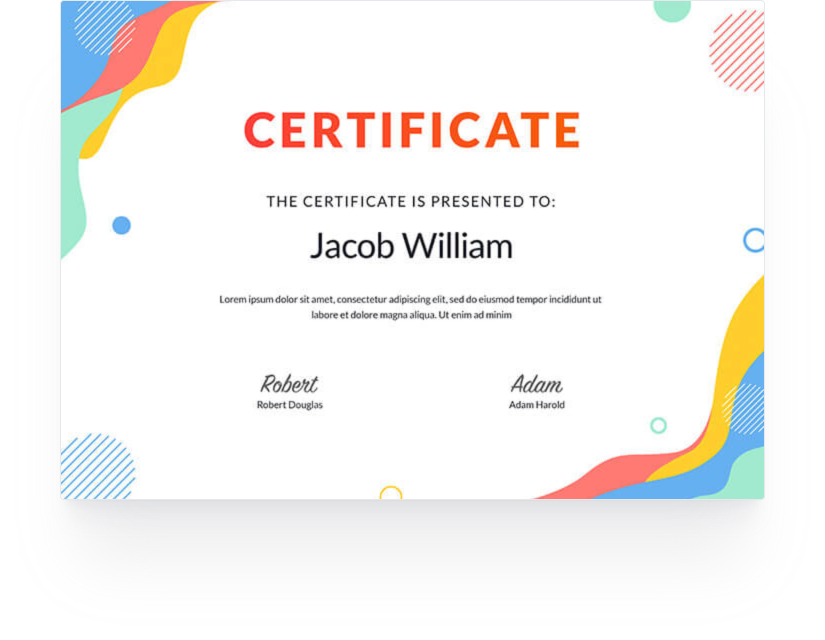
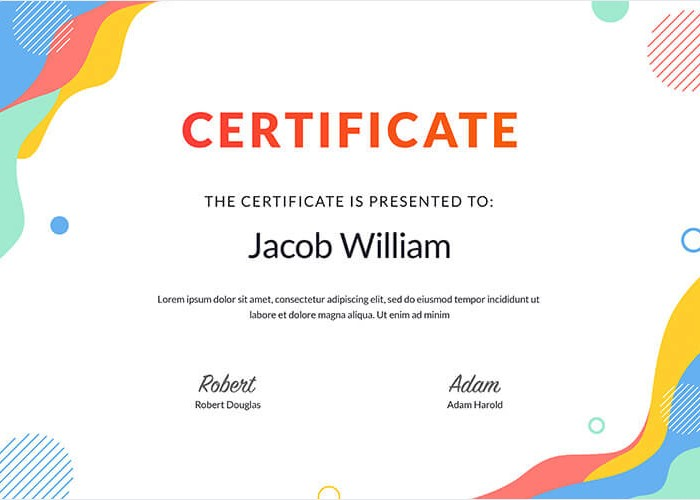
certificate section added

diff --git a/index.html b/index.html
@@ -104,7 +104,7 @@
             </div>
         </header>
         <main class="main">
-            <section class="about">
+            <section class="main__about about">
                 <div class="container">
                     <div class="about__inner">
                         <div class="about__createx">
@@ -161,32 +161,38 @@
                     </div>
                 </div>
             </section>
-            <section class="directions">
+            <section class="main__directions directions">
                 <div class="container">
                     <div class="directions__inner">
-                        <div class="directions__heading heading">
+                        <div class="directions__heading heading heading--text-center">
                             <p class="heading__subtitle">our main directions</p>
                             <h2 class="heading__title">What do we teach</h2>
                         </div>
                         <div class="directions__body">
                             <ul class="directions__filter-box">
                                 <li class="directions__filter-item">
-                                    <button class="directions__filter-btn directions__filter-btn--active" type="button" data-filter="all">All</button>
+                                    <button class="directions__filter-btn directions__filter-btn--active" type="button"
+                                        data-filter="all">All</button>
                                 </li>
                                 <li class="directions__filter-item">
-                                    <button class="directions__filter-btn" type="button" data-filter=".directions__list-item--marketing">Marketing</button>
+                                    <button class="directions__filter-btn" type="button"
+                                        data-filter=".directions__list-item--marketing">Marketing</button>
                                 </li>
                                 <li class="directions__filter-item">
-                                    <button class="directions__filter-btn" type="button" data-filter=".directions__list-item--managment">Management</button>
+                                    <button class="directions__filter-btn" type="button"
+                                        data-filter=".directions__list-item--managment">Management</button>
                                 </li>
                                 <li class="directions__filter-item">
-                                    <button class="directions__filter-btn" type="button" data-filter=".directions__list-item--hr">HR & Recruting</button>
+                                    <button class="directions__filter-btn" type="button"
+                                        data-filter=".directions__list-item--hr">HR & Recruting</button>
                                 </li>
                                 <li class="directions__filter-item">
-                                    <button class="directions__filter-btn" type="button" data-filter=".directions__list-item--design">Design</button>
+                                    <button class="directions__filter-btn" type="button"
+                                        data-filter=".directions__list-item--design">Design</button>
                                 </li>
                                 <li class="directions__filter-item">
-                                    <button class="directions__filter-btn" type="button" data-filter=".directions__list-item--development">Development</button>
+                                    <button class="directions__filter-btn" type="button"
+                                        data-filter=".directions__list-item--development">Development</button>
                                 </li>
                             </ul>
                             <div class="directions__list">
@@ -200,7 +206,7 @@
                                             <p class="directions__link-text">Odio posuere netus quisque faucibus lectus
                                                 arcu donec. Eget dictum eu viverra faucibus. Viverra scelerisque
                                                 consequat.</p>
-                                                <div class="directions__link-btn">Check courses</div>
+                                            <div class="directions__link-btn">Check courses</div>
                                         </div>
                                     </a>
                                 </li>
@@ -214,7 +220,7 @@
                                             <p class="directions__link-text">Odio posuere netus quisque faucibus lectus
                                                 arcu donec. Eget dictum eu viverra faucibus. Viverra scelerisque
                                                 consequat.</p>
-                                                <div class="directions__link-btn">Check courses</div>
+                                            <div class="directions__link-btn">Check courses</div>
                                         </div>
                                     </a>
                                 </li>
@@ -228,7 +234,7 @@
                                             <p class="directions__link-text">Odio posuere netus quisque faucibus lectus
                                                 arcu donec. Eget dictum eu viverra faucibus. Viverra scelerisque
                                                 consequat.</p>
-                                                <div class="directions__link-btn">Check courses</div>
+                                            <div class="directions__link-btn">Check courses</div>
                                         </div>
                                     </a>
                                 </li>
@@ -242,7 +248,7 @@
                                             <p class="directions__link-text">Odio posuere netus quisque faucibus lectus
                                                 arcu donec. Eget dictum eu viverra faucibus. Viverra scelerisque
                                                 consequat.</p>
-                                                <div class="directions__link-btn">Check courses</div>
+                                            <div class="directions__link-btn">Check courses</div>
                                         </div>
                                     </a>
                                 </li>
@@ -256,15 +262,46 @@
                                             <p class="directions__link-text">Odio posuere netus quisque faucibus lectus
                                                 arcu donec. Eget dictum eu viverra faucibus. Viverra scelerisque
                                                 consequat.</p>
-                                                <div class="directions__link-btn">Check courses</div>
+                                            <div class="directions__link-btn">Check courses</div>
                                         </div>
                                     </a>
                                 </li>
                                 <li class="mix directions__list-item directions__list-item--empty" data-order="6">
                                     <span>New studying program coming soon...</span>
                                 </li>
-                                
+
                             </div>
+                        </div>
+                    </div>
+                </div>
+            </section>
+            <section class="main__cert cert">
+                <div class="container">
+                    <div class="cert__inner">
+                        <div class="cert__content">
+                            <div class="cert__heading heading">
+                                <p class="heading__subtitle">Createx Certificate</p>
+                                <h2 class="heading__title">Your expertise will be confirmed</h2>
+                            </div>
+                            <div class="cert__text">
+                                <p class="cert__paragraph">
+                                    We are accredited by international professional organizations and institutes:
+                                </p>
+                            </div>
+                            <ul class="cert__logos">
+                                <li class="cert__logos-item">
+                                    <img src="images/logos/1.svg" alt="Del Mar Strategy">
+                                </li>
+                                <li class="cert__logos-item">
+                                    <img src="images/logos/2.svg" alt="Sentinal Consulting">
+                                </li>
+                                <li class="cert__logos-item">
+                                    <img src="images/logos/3.svg" alt="National">
+                                </li>
+                            </ul>
+                        </div>
+                        <div class="cert__image_box">
+                            <img src="images/award.jpg" alt="Certificate">
                         </div>
                     </div>
                 </div>

diff --git a/css/style.css b/css/style.css
@@ -26,6 +26,18 @@ button {
     height: 100%;
 }
 
+.main__about {
+    padding: 180px 0 160px;
+}
+
+.main__directions {
+    padding-bottom: 180px;
+}
+
+.main__cert {
+    margin-bottom: -46px;
+}
+
 .button {
     display: inline-block;
     font-weight: 700;
@@ -82,6 +94,10 @@ button {
     font-weight: 900;
     line-height: 130%;
     margin: 0;
+}
+
+.heading--text-center {
+    text-align: center;
 }
 
 .header {
@@ -258,9 +274,7 @@ button {
     margin-right: 12px;
 }
 
-.about {
-    padding: 180px 0 160px;
-}
+/* ////////////////////////////////// */
 
 .about__inner {}
 
@@ -364,12 +378,32 @@ button {
     margin-right: 16px;
 }
 
-.directions {
-    padding-bottom: 180px;
-}
+/* ////////////////////////////////// */
 
 .directions__inner {
     position: relative;
+}
+
+.directions__inner::before {
+    content: "";
+    display: block;
+    position: absolute;
+    top: 5px;
+    left: -111px;
+    width: 136px;
+    height: 115px;
+    background: url(../images/decor/2.svg) 0 0 no-repeat;
+}
+
+.directions__inner::after {
+    content: "";
+    display: block;
+    position: absolute;
+    top: 353px;
+    right: -262px;
+    width: 243px;
+    height: 243px;
+    background: url(../images/decor/3.svg) 0 0 no-repeat;
 }
 
 .directions__heading {
@@ -518,4 +552,55 @@ button {
 
 .directions__list-item--development .directions__link-tag {
     background-color: #7772f1;
+}
+
+/* ////////////////////////////////// */
+
+.cert {}
+
+.cert__inner {
+    display: flex;
+    justify-content: space-between;
+    position: relative;
+}
+
+.cert__inner::before {
+    content: "";
+    display: block;
+    position: absolute;
+    top: 0;
+    left: -111px;
+    width: 60px;
+    height: 60px;
+    background: url(../images/decor/4.svg) 0 0 no-repeat;
+}
+
+.cert__content {
+    margin-right: 30px;
+    max-width: 400px;
+}
+
+.cert__heading {
+    margin-bottom: 50px;
+}
+
+.cert__text {
+    margin-bottom: 30px;
+}
+
+.cert__logos {
+    display: flex;
+}
+
+.cert__logos-item {
+    margin-right: 40px;
+}
+
+.cert__logos-item:last-child {
+    margin-right: 0;
+
+}
+
+.cert__image_box {
+    box-shadow: 0px 4px 4px -4px rgba(30, 33, 44, 0.05), 0px 12px 10px -6px rgba(154, 156, 165, 0.08), 0px 30px 24px -10px rgba(154, 156, 165, 0.1), 0px 80px 80px -20px rgba(154, 156, 165, 0.16);
 }
